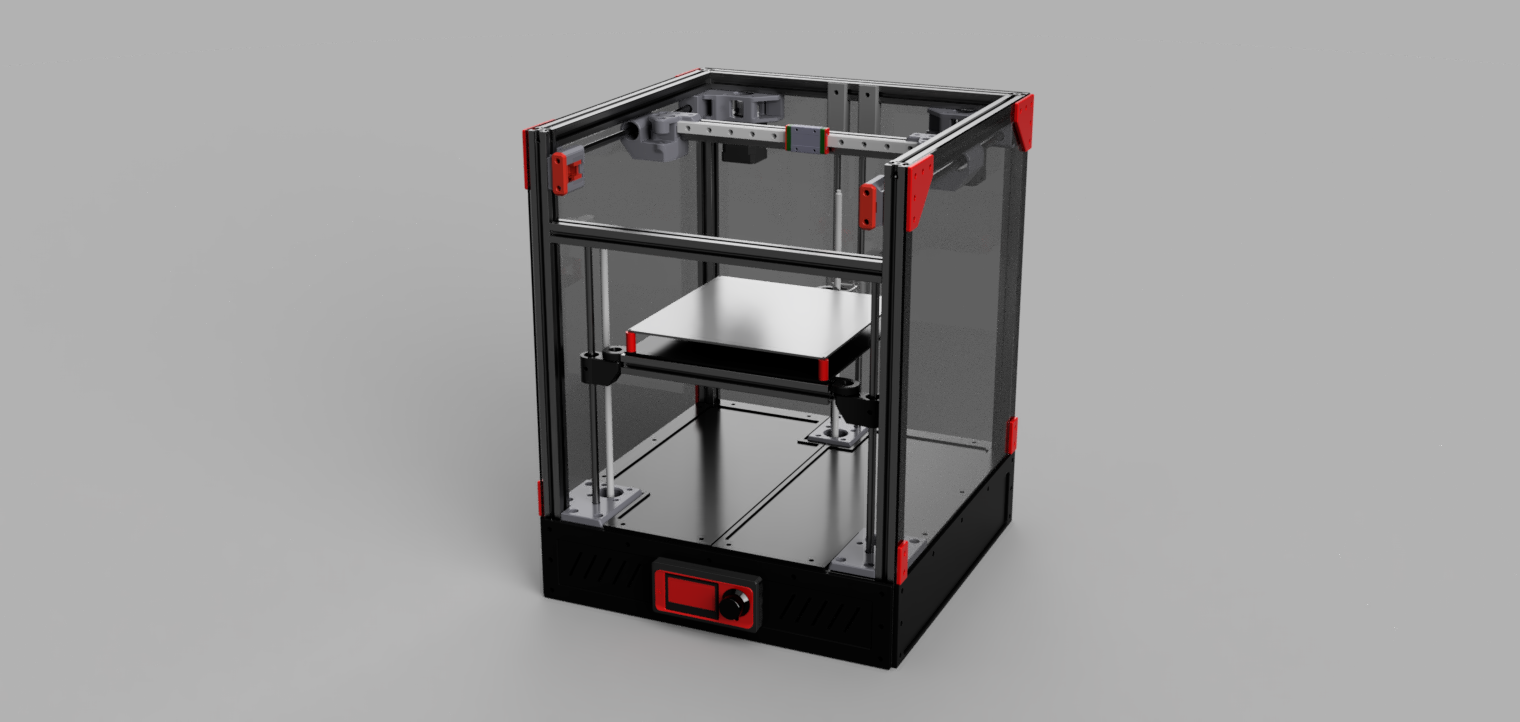
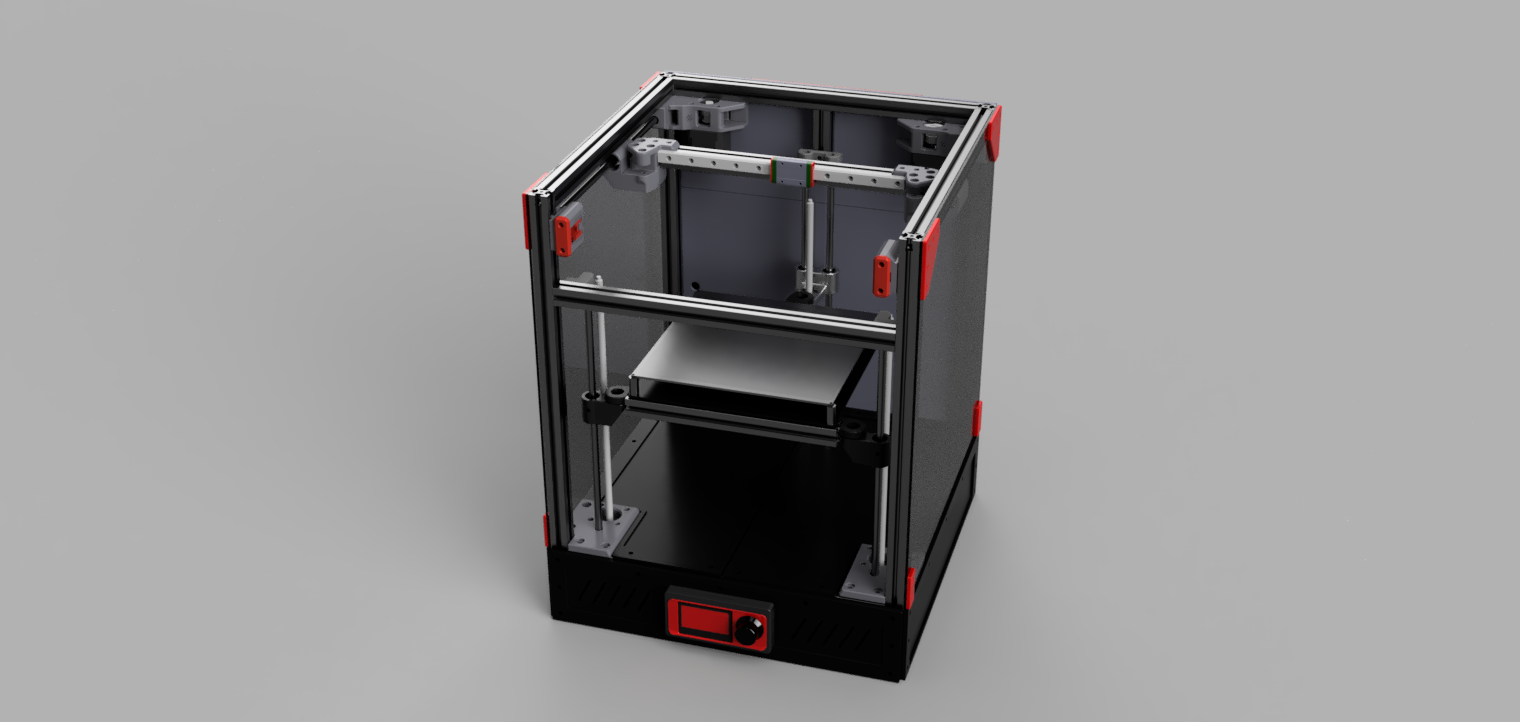
Added rear 62mm 2020

Changed region(s): [[0.3401, 0.0914, 0.6803, 0.9446]]

diff --git a/README.md b/README.md
@@ -26,7 +26,9 @@
 ### Cutting extrusions
 
 - 4x2020 500mm for Z 
+- 1x2020 62mm for rear Z support
 - 8x2020 350mm for X and Y
+
 
 
 ### Extrusions for the bed assy 220x220
